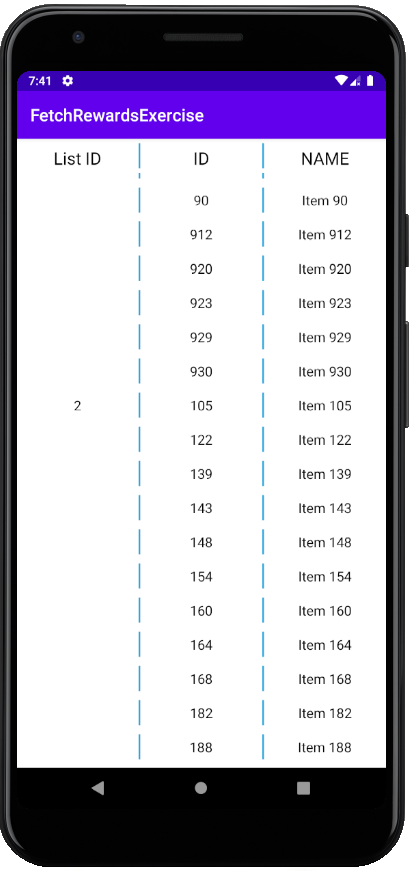
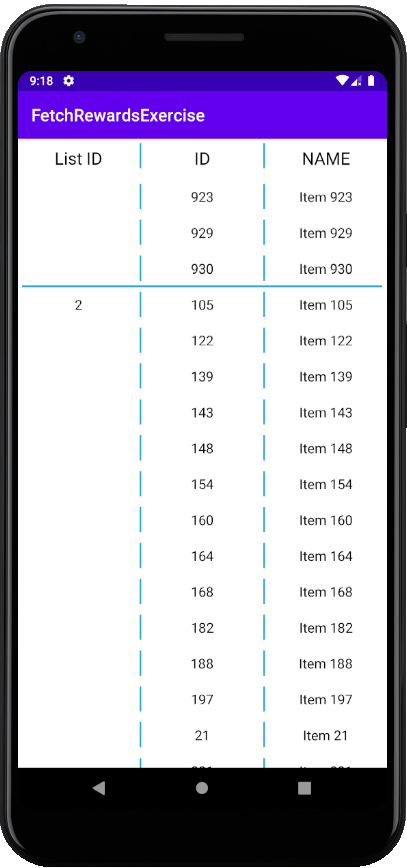
grouped

diff --git a/app/src/main/java/com/larryngo/fetchrewardsexercise/GridAdapter.java b/app/src/main/java/com/larryngo/fetchrewardsexercise/GridAdapter.java
@@ -49,6 +49,7 @@ public class GridAdapter extends BaseAdapter {
         }
 
         //Getting the texts for the necessary columns
+        View view_divider = view.findViewById(R.id.fetch_divider);
         TextView tv_listID = view.findViewById(R.id.fetch_listid);
         TextView tv_ID = view.findViewById(R.id.fetch_id);
         TextView tv_name = view.findViewById(R.id.fetch_name);
@@ -56,11 +57,14 @@ public class GridAdapter extends BaseAdapter {
         //setting the texts for each column
         if(position >= 1) { //prevent accessing unknown in the array
             if(list_objects.get(position).getListId() == list_objects.get(position-1).getListId()) { //checks to see if a listid already exists with the same value
+                view_divider.setVisibility(View.INVISIBLE); // no divider so it is properly grouped
                 tv_listID.setText(""); //no text
             } else {
+                view_divider.setVisibility(View.VISIBLE);
                 tv_listID.setText(String.valueOf(list_objects.get(position).getListId())); //sets the listid
             }
         } else {
+            view_divider.setVisibility(View.VISIBLE);
             tv_listID.setText(String.valueOf(list_objects.get(position).getListId())); //sets the listid for the first entry ( 1 )
         }
 
